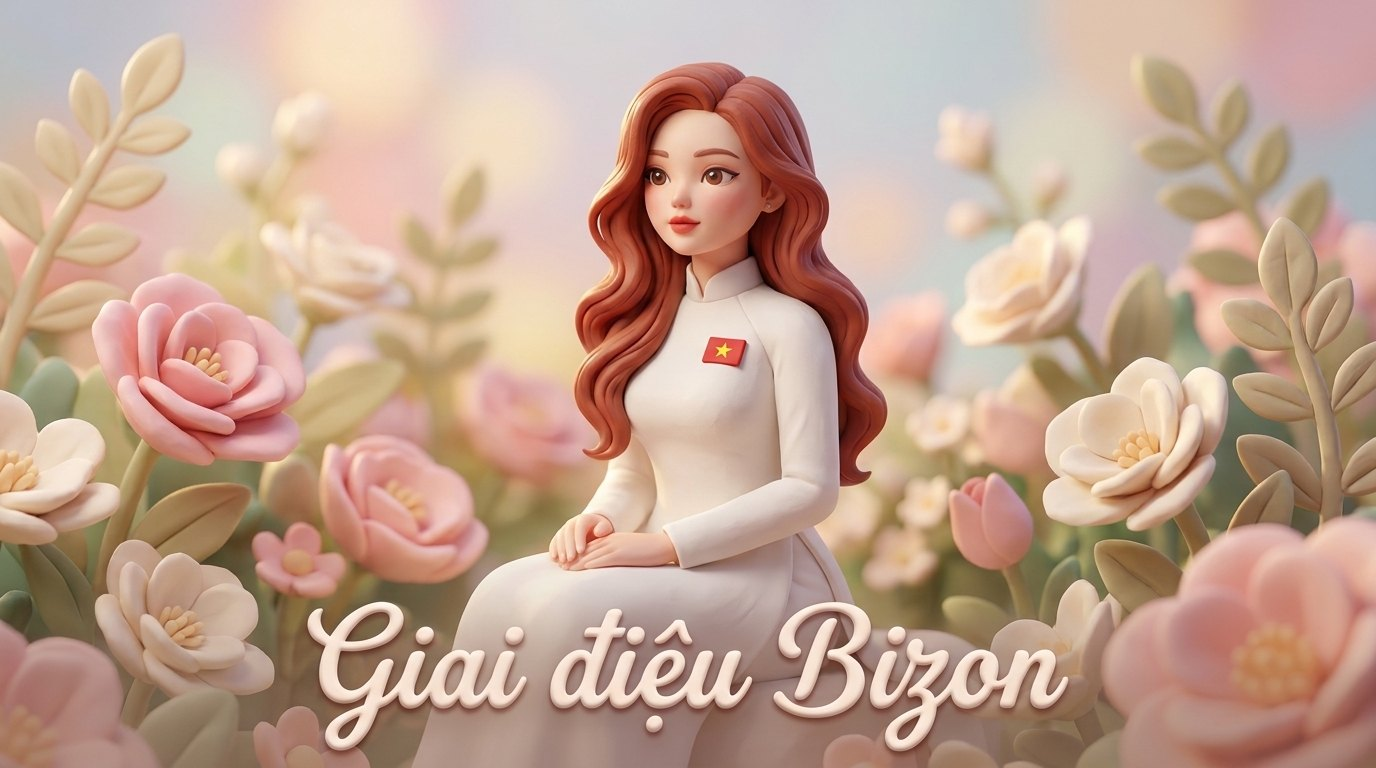
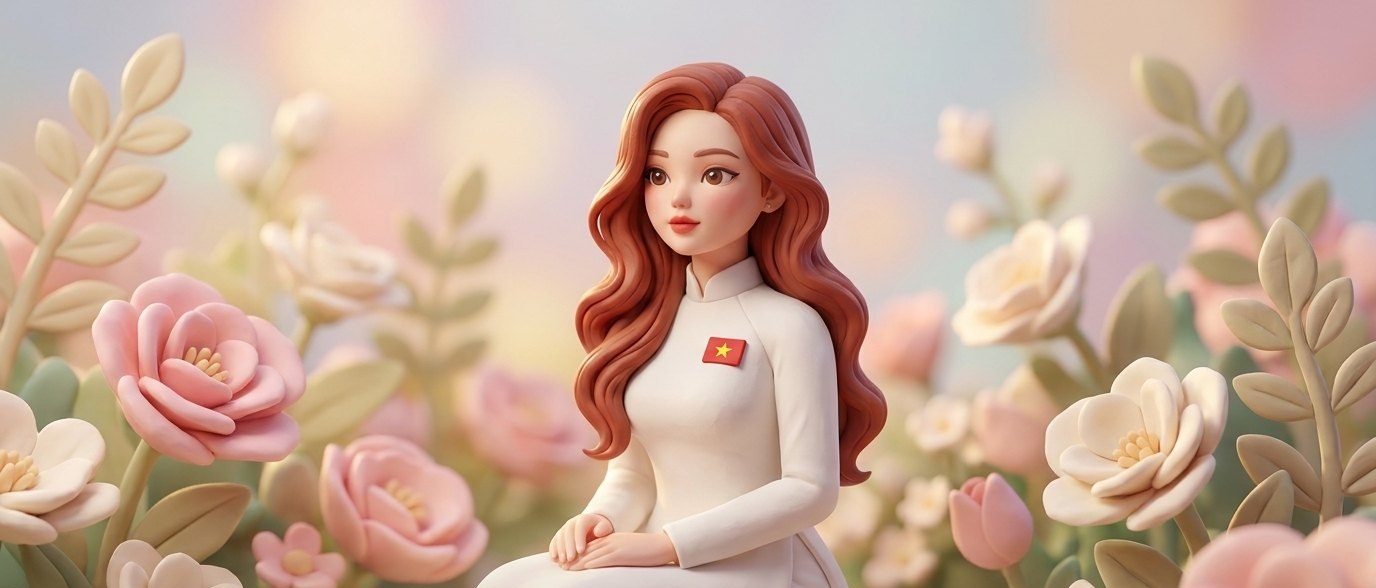
Sửa tên trên bìa tuyển tập thành «Giai điệu BizOn» (#218)
Chữ cũ in sẵn trong ảnh viết «Bizon» chữ z thường, không đúng thương
hiệu, và không sửa được bằng cách chỉnh ảnh vì là kiểu chữ viết tay.

- Cắt bỏ dải chữ ở đáy ảnh (1376×768 → 1376×588, thành khung ngang
  2,34:1), nhân vật và vườn hoa vẫn nguyên khung
- Đặt tên bằng chữ thật chồng lên ảnh: luôn viết đúng «BizOn», nét sắc
  trên mọi màn hình và dịch được sang tiếng Anh
- Thêm lớp chuyển màu mờ ở đáy để chữ đọc rõ trên nền hoa
- Nâng phiên bản bộ nhớ đệm lên bizon-v193

diff --git a/am-nhac.html b/am-nhac.html
@@ -22,6 +22,14 @@
   .glass-nav { background:rgba(3,51,55,.78); backdrop-filter:blur(14px); }
   .seek { -webkit-appearance:none; appearance:none; width:100%; height:8px; border-radius:999px; background:#dbe9f2; outline:none; }
   .seek::-webkit-slider-thumb { -webkit-appearance:none; width:18px; height:18px; border-radius:50%; background:linear-gradient(160deg,#00c4ff,#006687); box-shadow:0 3px 6px rgba(0,102,135,.4); cursor:pointer; }
+  /* Bìa tuyển tập: tên đặt bằng chữ thật để luôn viết đúng «BizOn» và dịch được sang tiếng Anh */
+  .bia-wrap { position:relative; }
+  .bia-wrap::after { content:''; position:absolute; inset:auto 0 0 0; height:52%;
+    background:linear-gradient(to top, rgba(60,32,40,.62), rgba(60,32,40,.22) 45%, transparent); }
+  .bia-title { position:absolute; left:0; right:0; bottom:0; z-index:2; padding:0 20px 18px; text-align:center; }
+  .bia-title span { font-family:'Plus Jakarta Sans',sans-serif; font-weight:800; color:#fff;
+    font-size:clamp(26px,4.6vw,54px); letter-spacing:-.01em; line-height:1.1;
+    text-shadow:0 3px 18px rgba(40,18,24,.55), 0 1px 3px rgba(40,18,24,.5); }
   #album-view { scroll-margin-top:84px; } /* chừa chỗ cho thanh điều hướng dán trên đầu */
   /* Ảnh bìa ca khúc: khung vuông cố định để mọi thẻ cao bằng nhau dù ảnh gốc khác tỉ lệ */
   .song-art { width:72px; height:72px; border-radius:18px; object-fit:cover; object-position:50% 22%;
@@ -92,7 +100,10 @@
 
   <!-- BÌA TUYỂN TẬP -->
   <figure class="clay-card overflow-hidden mb-10">
-    <img src="assets/illustrations/giai-dieu-bizon.jpg" alt="Bìa «Giai điệu BizOn» – Lumina trong tà áo dài trắng giữa vườn hoa đất sét" class="w-full block" width="1376" height="768" loading="lazy">
+    <div class="bia-wrap">
+      <img src="assets/illustrations/giai-dieu-bizon.jpg" alt="Bìa «Giai điệu BizOn» – Lumina trong tà áo dài trắng giữa vườn hoa đất sét" class="w-full block" width="1376" height="588" loading="lazy">
+      <figcaption class="bia-title"><span>Giai điệu BizOn</span></figcaption>
+    </div>
     <figcaption class="px-5 py-3 text-[11px] text-deep-teal/55">🎨 Bìa tuyển tập «Giai điệu BizOn» – tranh minh họa đất sét 3D, thuộc bộ tác phẩm mỹ thuật ứng dụng của nhóm tác giả. Xem <a href="hau-truong.html" class="font-bold text-primary">🎚 hậu trường sản xuất kho nhạc</a>.</figcaption>
   </figure>
 

diff --git a/js/error-log.js b/js/error-log.js
@@ -8,7 +8,7 @@
  * Tắt backend (enabled=false) là tắt luôn giám sát lỗi. */
 (function () {
   const QKEY = 'bizon-error-queue';
-  const APP_VER = 'bizon-v192'; // khớp CACHE trong sw.js – biết lỗi thuộc phiên bản nào
+  const APP_VER = 'bizon-v193'; // khớp CACHE trong sw.js – biết lỗi thuộc phiên bản nào
   const MAX_PER_LOAD = 5;       // chống bão lỗi lặp: tối đa 5 bản ghi mỗi lượt tải trang
   let sent = 0;
   const seen = new Set();

diff --git a/sw.js b/sw.js
@@ -1,7 +1,7 @@
 /* BizOn Bật Nghiệp 2026 – Service Worker (offline app shell)
  * © 2026 Đỗ Thùy Hương & Phan Anh Tú. Bảo lưu mọi quyền. */
 
-const CACHE = 'bizon-v192';
+const CACHE = 'bizon-v193';
 const SHELL = [
   './',
   './index.html',

diff --git a/js/site-ui.js b/js/site-ui.js
@@ -3770,6 +3770,10 @@
 [
 "Lumina giới thiệu thư viện",
 "Lumina introducing the library"
+],
+[
+"Giai điệu BizOn",
+"BizOn Melodies"
 ]
 ]);
   var SPECIAL = [
